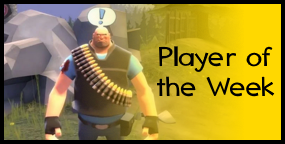
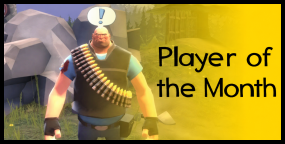
site: Multiple Changes
- Changed potw.html, edited all mentions of "week" to "month".
- Changed index.html, updated pointer1.png to reflect change.

diff --git a/potw.html b/potw.html
@@ -2,10 +2,10 @@
 <!-- Website template by freewebsitetemplates.com -->
 <html>
 	<head>
-		<meta property="og:title" content="Moon's Pub - Player of the Week" />
+		<meta property="og:title" content="Moon's Pub - Player of the Month" />
 		<meta
 			property="og:description"
-			content="Discover who the player of the week is on Moon's Pub!"
+			content="Discover who the player of the month is on Moon's Pub!"
 		/>
 		<meta
 			property="og:image"
@@ -14,14 +14,14 @@
 		<meta property="og:url" content="https://moonspub.github.io/" />
 		<meta
 			property="og:site_name"
-			content="Moon's Pub - Player of the Week"
+			content="Moon's Pub - Player of the Month"
 		/>
 		<meta property="og:type" content="website" />
 		<meta name="twitter:card" content="summary_large_image" />
-		<meta name="twitter:title" content="Moon's Pub - Player of the Week" />
+		<meta name="twitter:title" content="Moon's Pub - Player of the Month" />
 		<meta
 			name="twitter:description"
-			content="Discover who the player of the week is on Moon's Pub!"
+			content="Discover who the player of the month is on Moon's Pub!"
 		/>
 		<meta
 			name="twitter:image"
@@ -29,11 +29,11 @@
 		/>
 		<meta
 			name="description"
-			content="Discover who the player of the week is on Moon's Pub!"
+			content="Discover who the player of the month is on Moon's Pub!"
 		/>
 		<link rel="canonical" href="https://moonspub.github.io/" />
 		<meta charset="UTF-8" />
-		<title>Moon's Pub - Player of the Week</title>
+		<title>Moon's Pub - Player of the Month</title>
 		<link
 			rel="stylesheet"
 			href="assets/css/style.css?version=0.0.5"
@@ -88,7 +88,7 @@
 							<div class="body">
 								<div>
 									<h1>
-										<b>PLAYER OF THE WEEK: GOOSE5000</b>
+										<b>PLAYER OF THE MONTH: GOOSE5000</b>
 									</h1>
 									<img
 										src="https://avatars.akamai.steamstatic.com/61344efc54aea84d4a1ed033dd25fdf7977201e9_full.jpg"
